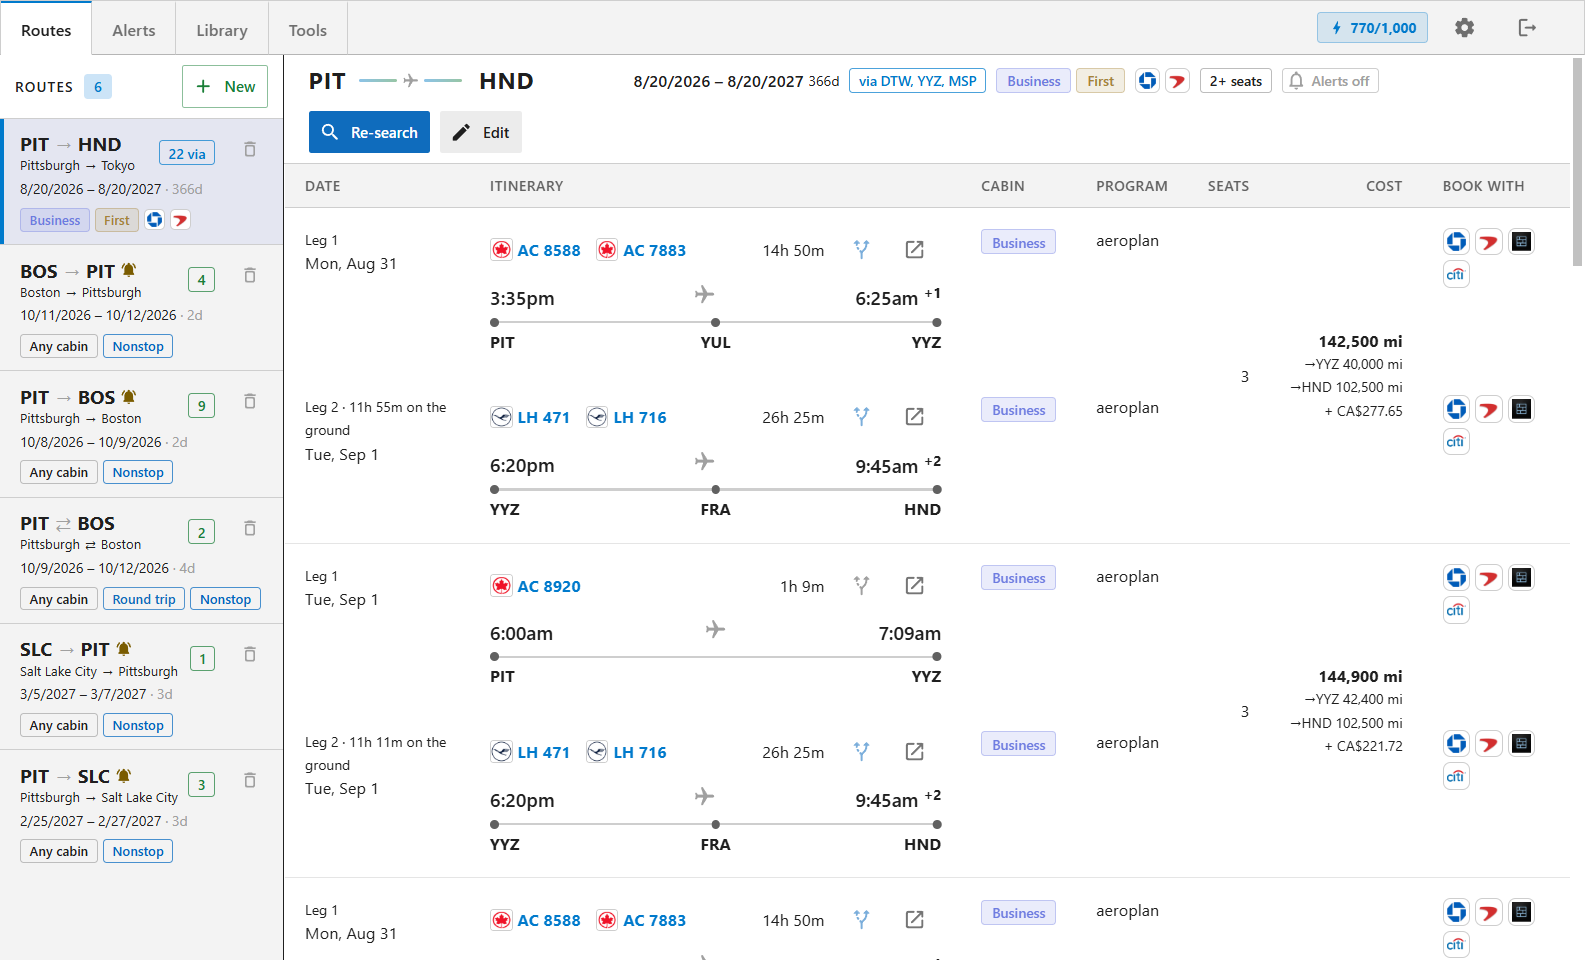
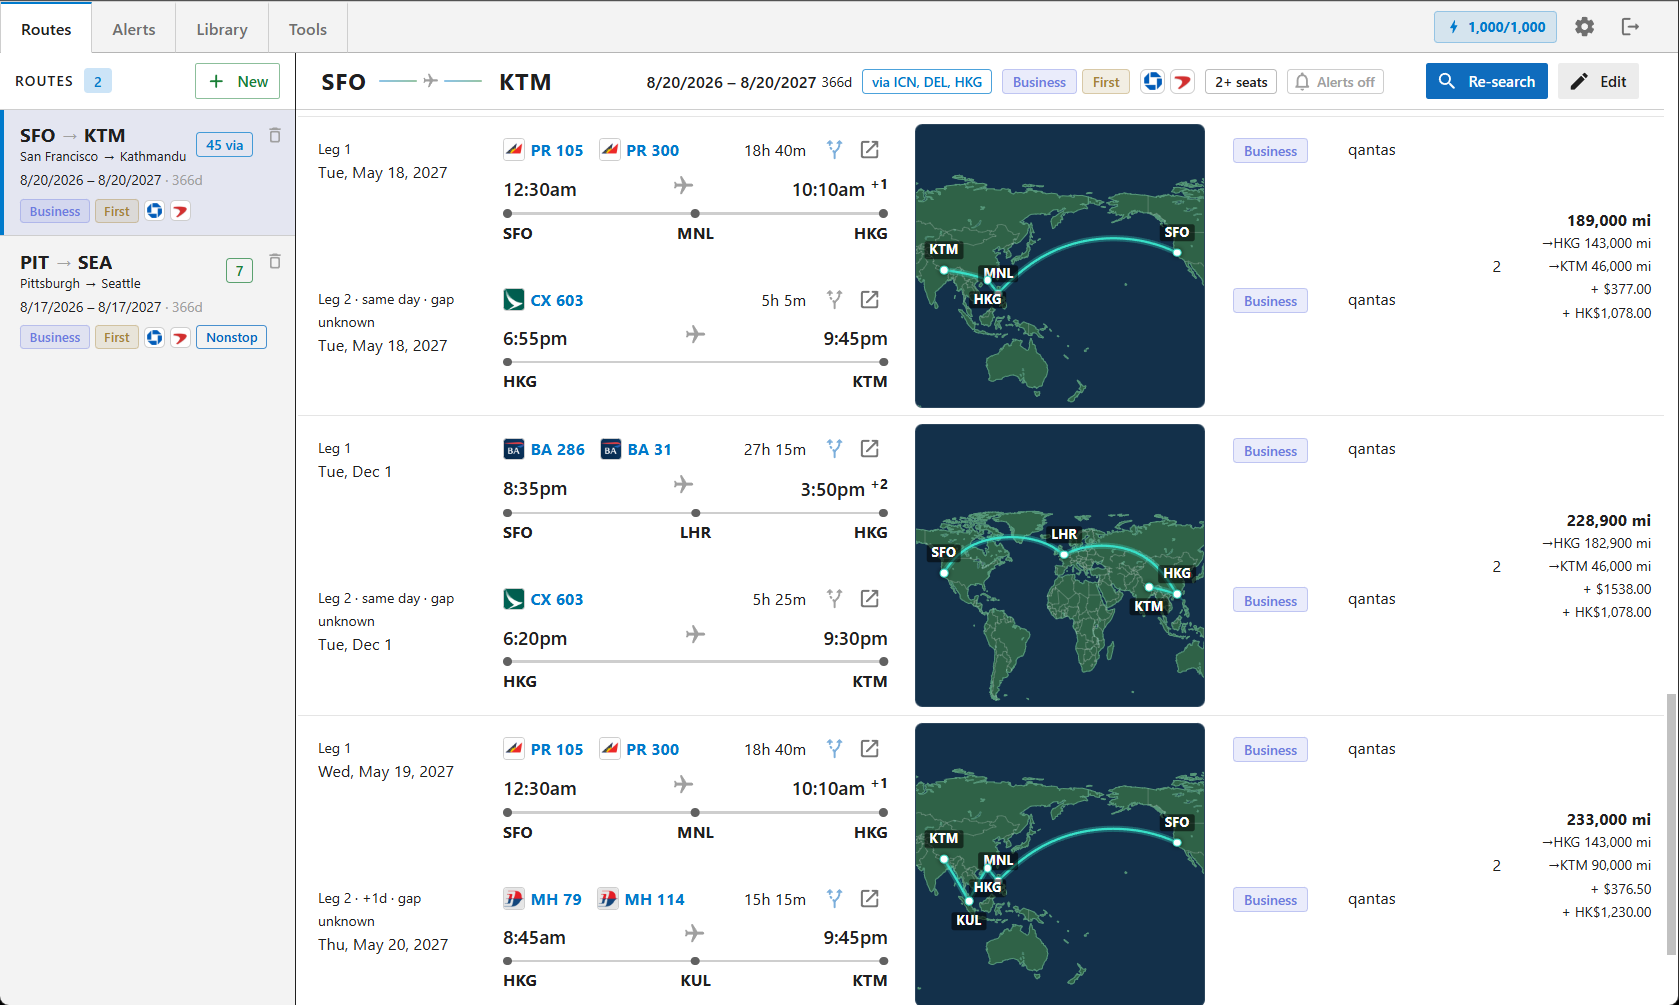
update readme

diff --git a/README.md b/README.md
@@ -2,10 +2,15 @@
 
 A self-hosted award-travel availability tracker to use with your seats.aero API key, or your own data provider. Run it locally or deploy to a free Cloudflare account.
 
+* Search trips with award deals, one way or round trip.
+* Find routes built from separate tickets from separate award providers.
+* Set automated monitoring and alerting.
+
 <table>
 <tr>
-<td width="50%"><img src="docs/images/preview.png" alt="Routes dashboard" width="100%"></td>
-<td width="50%"><img src="docs/images/preview2.png" alt="Tools page" width="100%"></td>
+<td width="33.3%"><img src="docs/images/preview.png" alt="Routes dashboard" width="100%"></td>
+<td width="33.3%"><img src="docs/images/preview2.png" alt="Tools page" width="100%"></td>
+<td width="33.3%"><img src="docs/images/preview3.png" alt="Library page" width="100%"></td>
 </tr>
 </table>
 
@@ -20,10 +25,9 @@ A self-hosted award-travel availability tracker to use with your seats.aero API 
 ## Documentation
 
 - [`docs/SOURCES.md`](docs/SOURCES.md) — how additional data sources can be added
-- [`docs/SEATS-AERO.md`](docs/SEATS-AERO.md) — currently the only implemented data source - seats.aero's paid API, bring your own key.
-- [`docs/ALERTS.md`](docs/ALERTS.md) — the scheduled sweep: pacing, the budget
-  guard, the digest
-- [`docs/UI-TESTING.md`](docs/UI-TESTING.md) — driving the SPA headless, with
+- [`docs/SEATS-AERO.md`](docs/SEATS-AERO.md) — How the paid seats.aero API is implemented as a data source. Bring your own API key.
+- [`docs/ALERTS.md`](docs/ALERTS.md) — how BertBooker periodically searches tracked routes and sends configurable email alerts
+- [`docs/UI-TESTING.md`](docs/UI-TESTING.md) — driving the SPA headless for testing and debugging.
 
 ## First-time setup
 
@@ -140,6 +144,56 @@ secrets override vars of the same name.
   here only to identify the programs a seat can be booked with.
 
 This project does not scrape airline websites.
+
+## Acknowledgements
+
+BertBooker is a hobby project that stands almost entirely on free and
+open-source work. The only thing it pays for is the seats.aero Partner API key;
+everything below is either open source or a free tier.
+
+**The app itself**
+
+| | |
+|---|---|
+| [React](https://react.dev/) · [React DOM](https://react.dev/) | MIT — the SPA |
+| [MUI](https://mui.com/) (`@mui/material`, `@mui/icons-material`) | MIT — every control on the page. The themes are palettes over it; no theme restyles a component. |
+| [Emotion](https://emotion.sh/) (`@emotion/react`, `@emotion/styled`) | MIT — MUI's style engine |
+| [TanStack Router](https://tanstack.com/router) | MIT — typed routes, which is why a Library or Tools tab is a URL rather than state |
+| [TanStack Query](https://tanstack.com/query) | MIT — every read from the Worker |
+| [Hono](https://hono.dev/) | MIT — the Worker's routing and middleware |
+| [Leaflet](https://leafletjs.com/) · [React Leaflet](https://react-leaflet.js.org/) | BSD-2-Clause · Hippocratic-2.1 — the Airports map and the route graph |
+| [Supercluster](https://github.com/mapbox/supercluster) | ISC — clustering ~72k airport markers client-side |
+
+**Building, testing and deploying it**
+
+| | |
+|---|---|
+| [TypeScript](https://www.typescriptlang.org/) | Apache-2.0 — five `tsc` projects, including the narrow one that keeps the wire contract browser-safe |
+| [Vite](https://vite.dev/) · [`@vitejs/plugin-react`](https://github.com/vitejs/vite-plugin-react) | MIT — the dev server and the one bundle `deploy` uploads |
+| [Vitest](https://vitest.dev/) | MIT — the whole offline test run |
+| [Playwright](https://playwright.dev/) | Apache-2.0 — the headless UI harness (`docs/UI-TESTING.md`) |
+| [Wrangler](https://developers.cloudflare.com/workers/wrangler/) · [`@cloudflare/workers-types`](https://github.com/cloudflare/workerd) | MIT OR Apache-2.0 — local D1, `wrangler dev`, and the deploy |
+| [concurrently](https://github.com/open-cli-tools/concurrently) | MIT — `npm run dev` |
+| [Node.js](https://nodejs.org/) | MIT — the generator scripts under `scripts/` |
+
+**Free hosted services the app calls**
+
+| | |
+|---|---|
+| [Cloudflare](https://developers.cloudflare.com/workers/) Workers, D1 and Cron Triggers | The whole deployment fits in the free tier. Optional — it runs locally with no account. |
+| [CARTO](https://carto.com/attributions) basemap tiles, over [OpenStreetMap](https://www.openstreetmap.org/copyright) data | The Airports map's raster tiles, light and dark. The trip list's route maps and the route graph use the baked-in Natural Earth geometry instead and need no network. |
+| [Kiwi.com](https://www.kiwi.com/) airline logos | `images.kiwi.com/airlines/64x64/<iata>.png`, hotlinked and unauthenticated. |
+| [DuckDuckGo](https://duckduckgo.com/) favicon service | The little marks beside transfer currencies and programs. |
+
+Public-domain datasets — [OurAirports](https://ourairports.com/data/) and
+[Natural Earth](https://www.naturalearthdata.com/), the latter via
+[martynafford/natural-earth-geojson](https://github.com/martynafford/natural-earth-geojson) —
+are covered above under *Third-party data and services*.
+
+None of these projects or services are affiliated with BertBooker or endorse it.
+Each is used under its own license and terms; the tiles, logos and favicons in
+particular are third-party endpoints that this project neither controls nor
+caches.
 
 ## License
 
